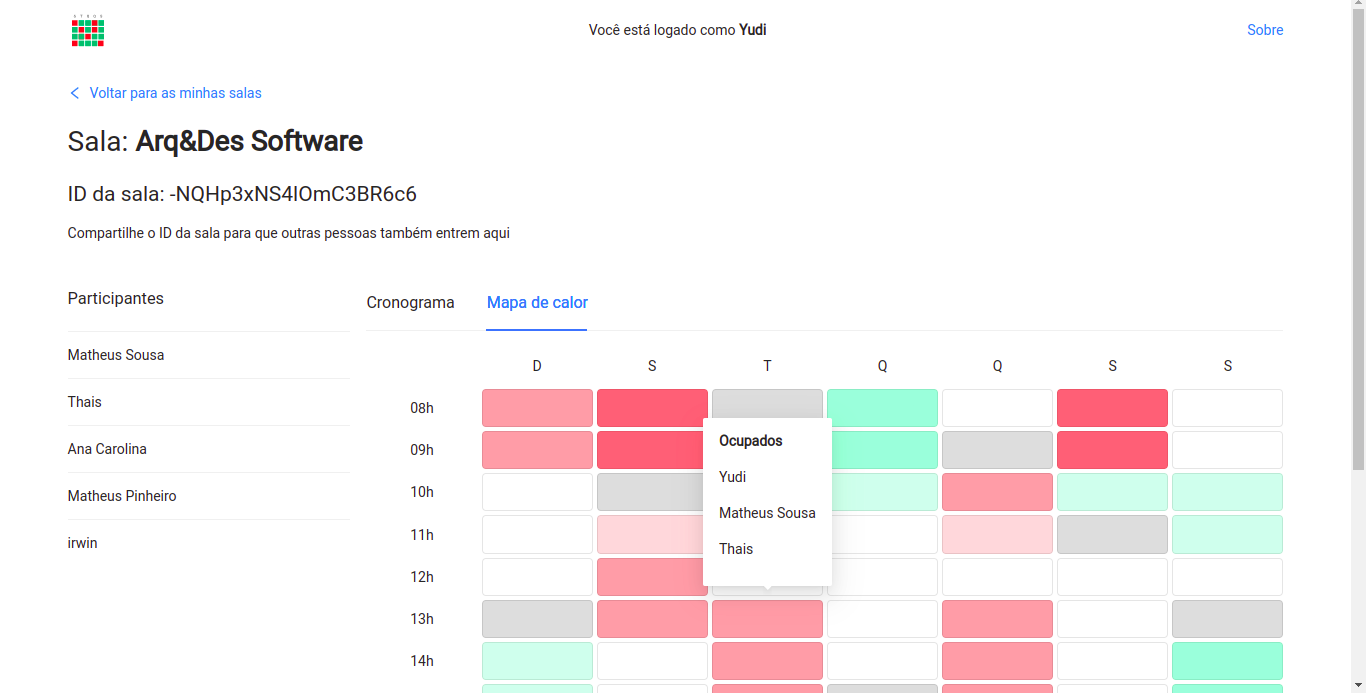
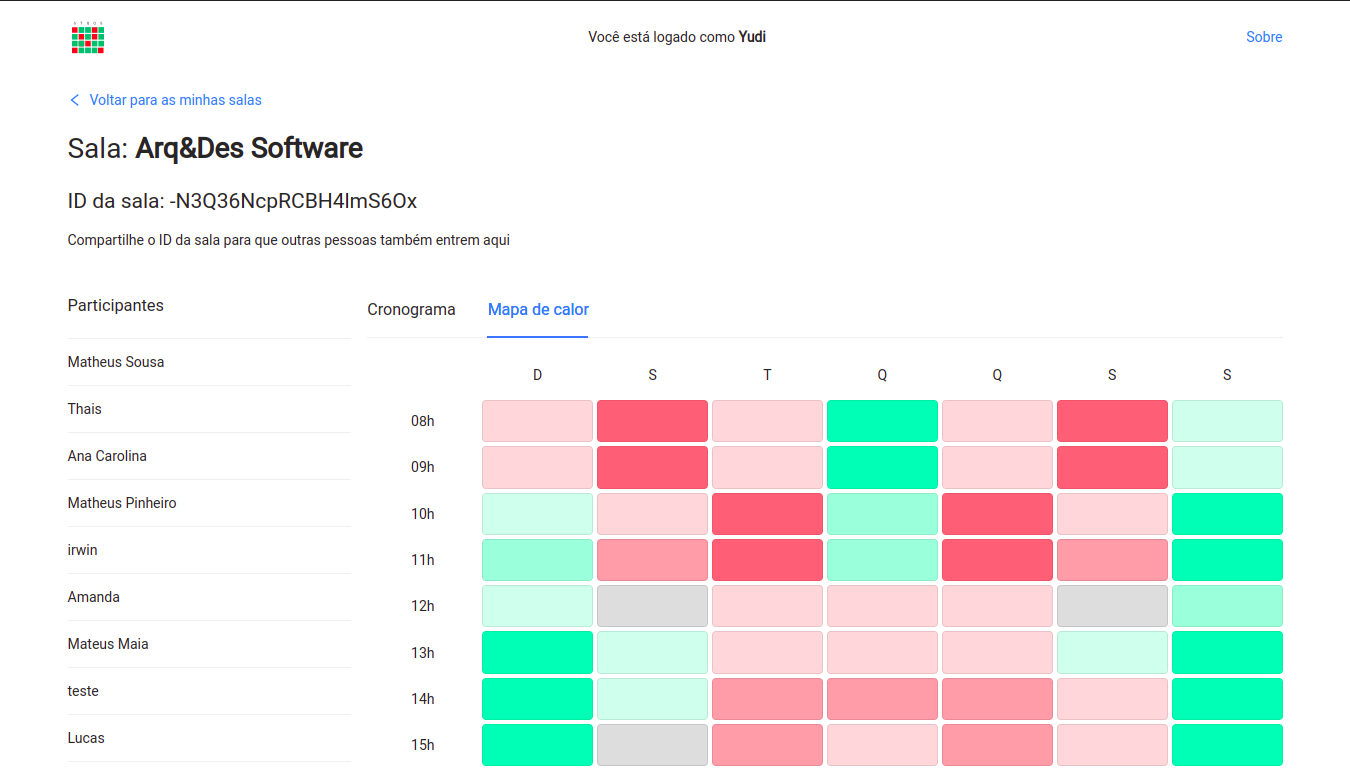
docs(readme): atualiza screenshot do app

diff --git a/README.md b/README.md
@@ -13,12 +13,12 @@
     Encontre e visualize horários em comum para o seu grupo. Fácil e rápido de usar.
     <br />
     <a href="https://boramarcar.vercel.app">Veja funcionando</a>
-    ·
+    <!-- ·
     <a style="pointer-events: none; display: inline-block; color: grey;" href="#">
       Achou um bug? Clique aqui</a>
     ·
     <a style="pointer-events: none; display: inline-block; color: grey;" href="#">
-      Mais funcionalidades</a>
+      Mais funcionalidades</a> -->
   </p>
 </div>
 
